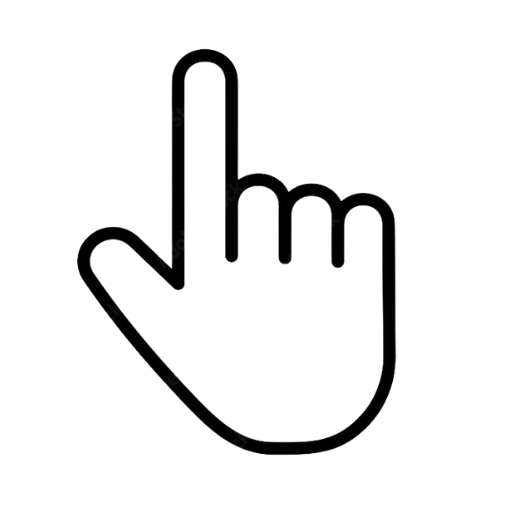
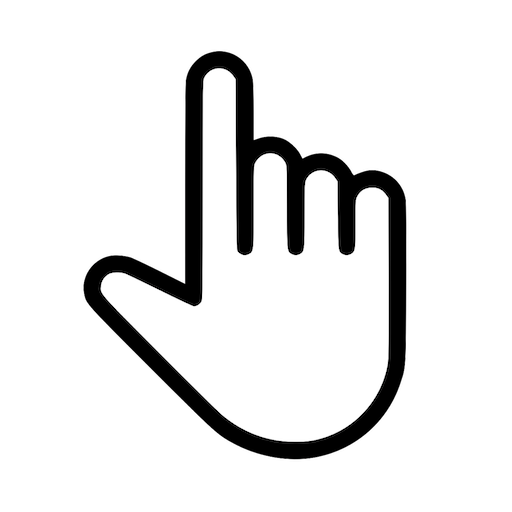
Add CSS variables for cta-pointer-tap start/end positions
Copilot-Session: 5497730c-bb16-493d-9542-a17124f84a70

Changed region(s): [[0.125, 0.0938, 0.8125, 0.9062]]

diff --git a/src/styles/app.css b/src/styles/app.css
@@ -227,6 +227,13 @@
   transform-origin: 68% 22%;
   pointer-events: none;
   filter: drop-shadow(0 14px 20px rgba(10, 22, 46, 0.35));
+  /* Start (off/retracted) and end (tap) positions for the cta-pointer-tap
+     keyframes below, so the travel path can be tuned without touching the
+     animation itself. */
+  --cta-pointer-start-x: 396px;
+  --cta-pointer-start-y: -206px;
+  --cta-pointer-end-x: 90px;
+  --cta-pointer-end-y: 125px;
 }
 
 /* ---------------------------------------------------------------------------
@@ -3106,30 +3113,30 @@
   0%,
   100% {
     opacity: 0;
-    transform: translate(306px, -156px) scale(0.8);
+    transform: translate(var(--cta-pointer-start-x), var(--cta-pointer-start-y)) scale(0.8);
   }
 
   18% {
     opacity: 1;
-    transform: translate(60px, 90px) scale(1);
+    transform: translate(var(--cta-pointer-end-x), var(--cta-pointer-end-y)) scale(1);
   }
 
   30% {
-    transform: translate(52px, 76px) scale(0.94);
+    transform: translate(calc(var(--cta-pointer-end-x) - 8px), calc(var(--cta-pointer-end-y) - 14px)) scale(0.94);
   }
 
   40% {
-    transform: translate(60px, 90px) scale(1);
+    transform: translate(var(--cta-pointer-end-x), var(--cta-pointer-end-y)) scale(1);
   }
 
   55% {
     opacity: 1;
-    transform: translate(60px, 90px) scale(1);
+    transform: translate(var(--cta-pointer-end-x), var(--cta-pointer-end-y)) scale(1);
   }
 
   70% {
     opacity: 0;
-    transform: translate(306px, -156px) scale(0.8);
+    transform: translate(var(--cta-pointer-start-x), var(--cta-pointer-start-y)) scale(0.8);
   }
 }
 
